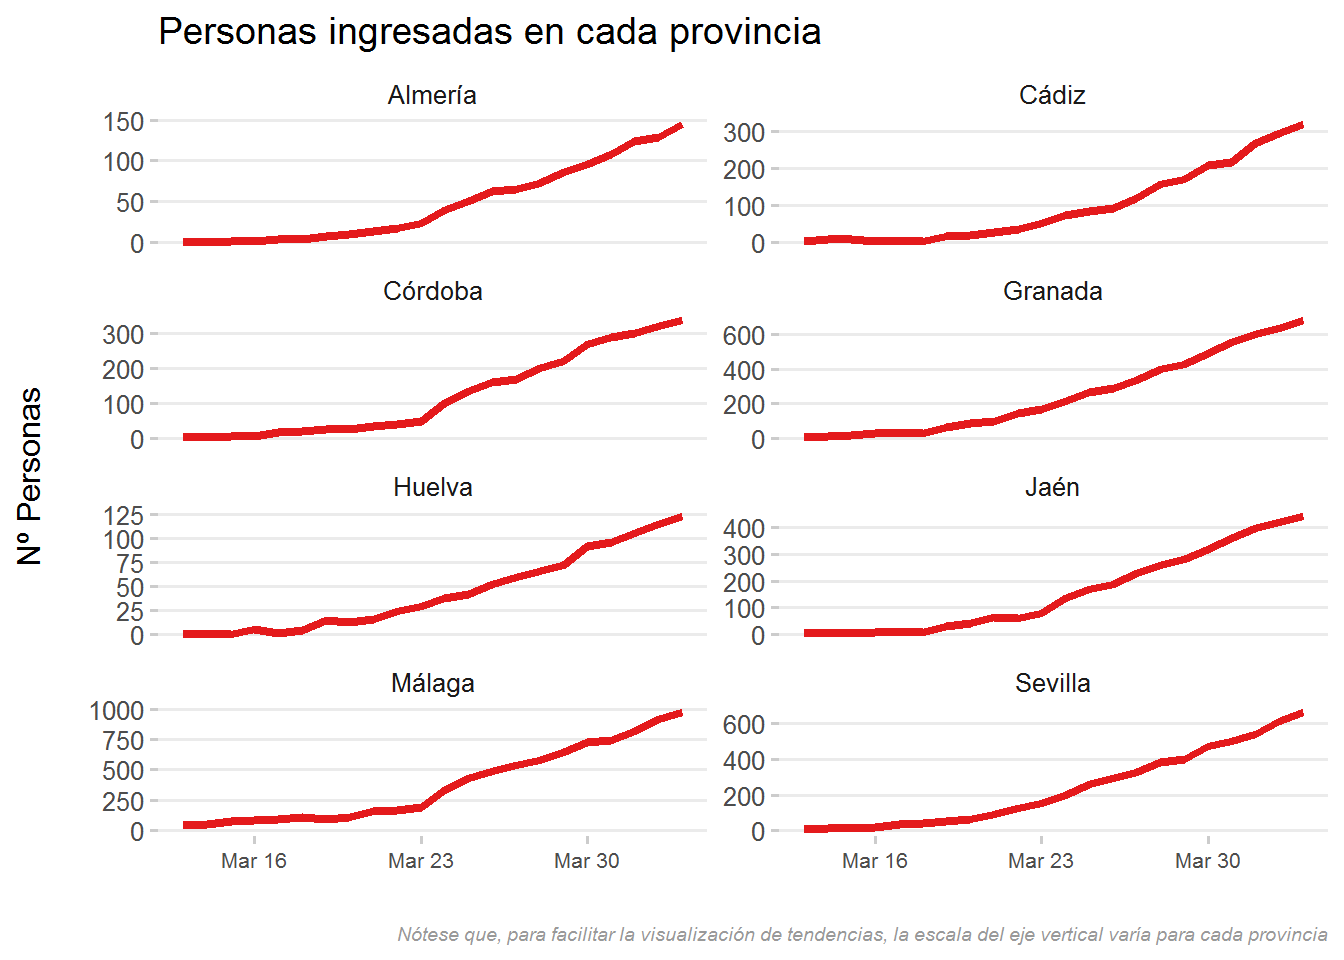
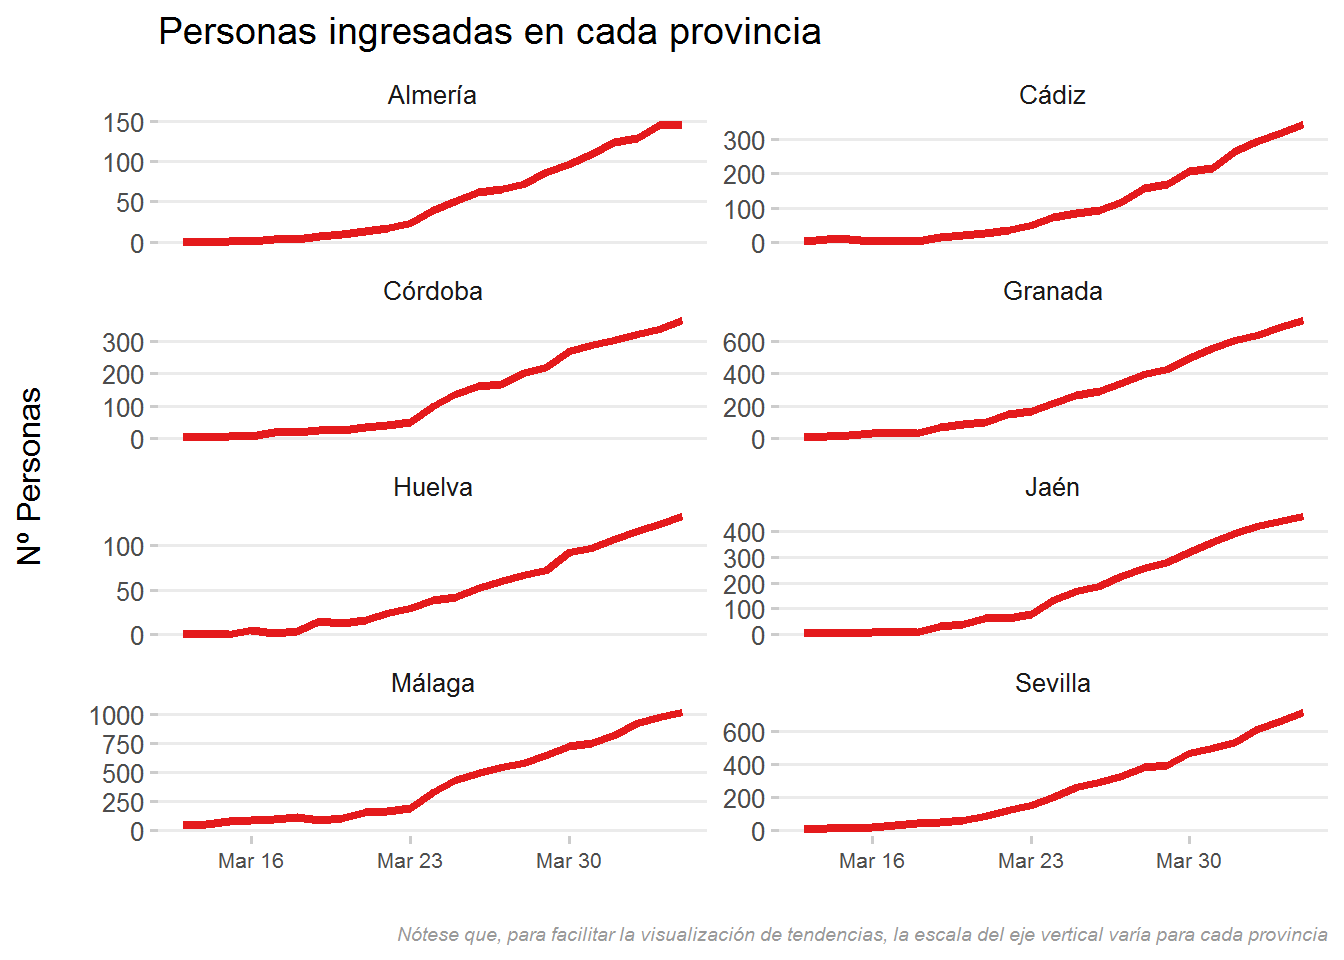
update 4 Abril

diff --git a/evolucion-coronavirus-andalucia.html b/evolucion-coronavirus-andalucia.html
@@ -194,7 +194,7 @@ summary {
 <p><br></p>
 <p>Aquí se visualiza la evolución de la enfermedad del coronavirus (COVID-19) en Andalucía, según los <a href="https://www.juntadeandalucia.es/organismos/saludyfamilias/areas/salud-vida/paginas/Nuevo_Coronavirus.html">datos oficiales ofrecidos por la Consejería de Salud y Familias</a>. A diferencia de otras visualizaciones más extendidas, que representan datos acumulados en el tiempo, aquí se enfatizan las <strong>variaciones diarias absolutas (no acumuladas)</strong> en número de casos detectados, personas ingresadas, curadas y número de fallecimientos.</p>
 <p>Los datos se actualizan diariamente. Tanto los datos como el código empleado para generar estas visualizaciones está disponible <a href="https://github.com/Pakillo/COVID19-Andalucia">aquí</a>.</p>
-<p>Última actualización: 2020-04-03</p>
+<p>Última actualización: 2020-04-04</p>
 <ul>
 <li><a href="#casos-detectados">Casos detectados</a></li>
 <li><a href="#personas-ingresadas-en-centros-sanitarios">Personas ingresadas en centros sanitarios</a></li>
@@ -228,8 +228,6 @@ summary {
 </div>
 <div id="personas-ingresadas-en-cuidados-intensivos-uci" class="section level2">
 <h2>Personas ingresadas en cuidados intensivos (UCI)</h2>
-<p><br></p>
-<p>Número neto de personas que permanecen ingresadas en cuidados intensivos (UCI).</p>
 <p><br></p>
 <p><img src="evolucion-coronavirus-andalucia_files/figure-html/uci_Andalucía-1.png" width="100%" /></p>
 <p><br> <br></p>
